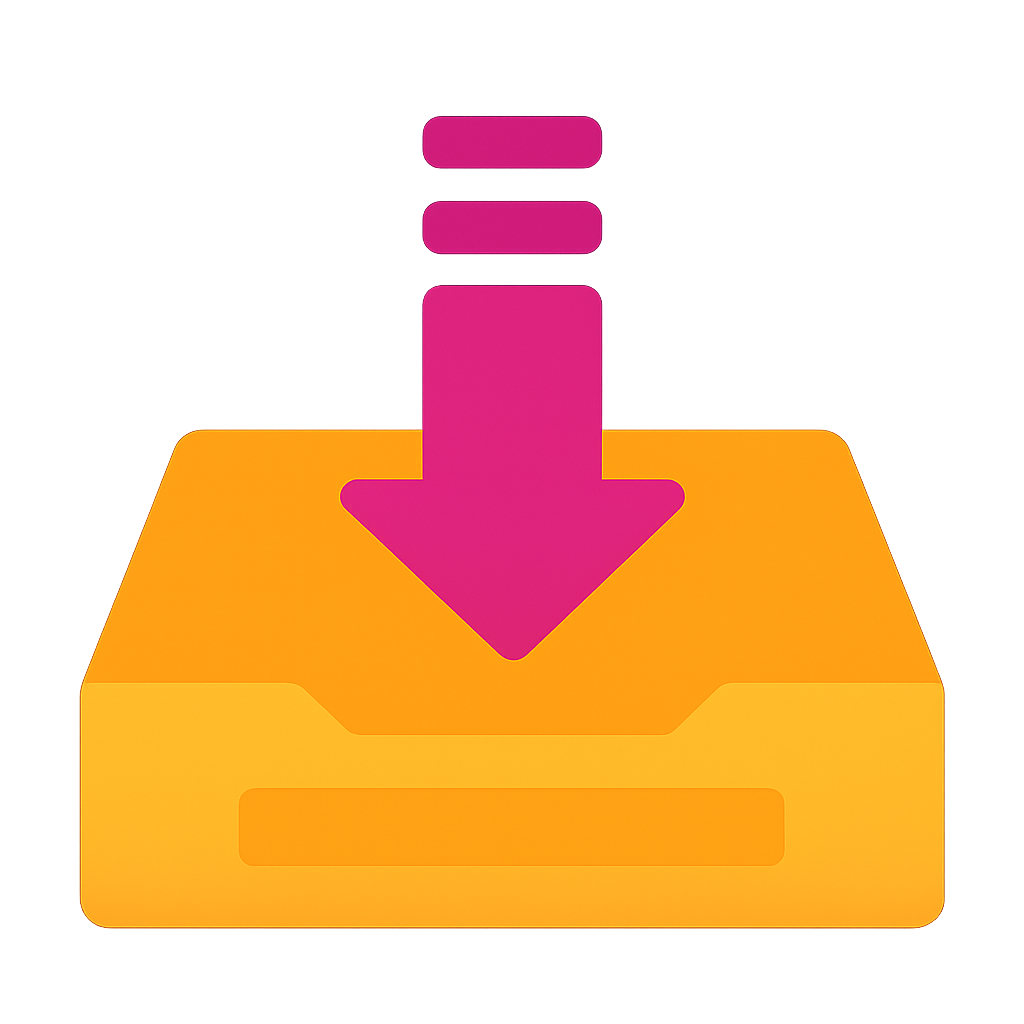
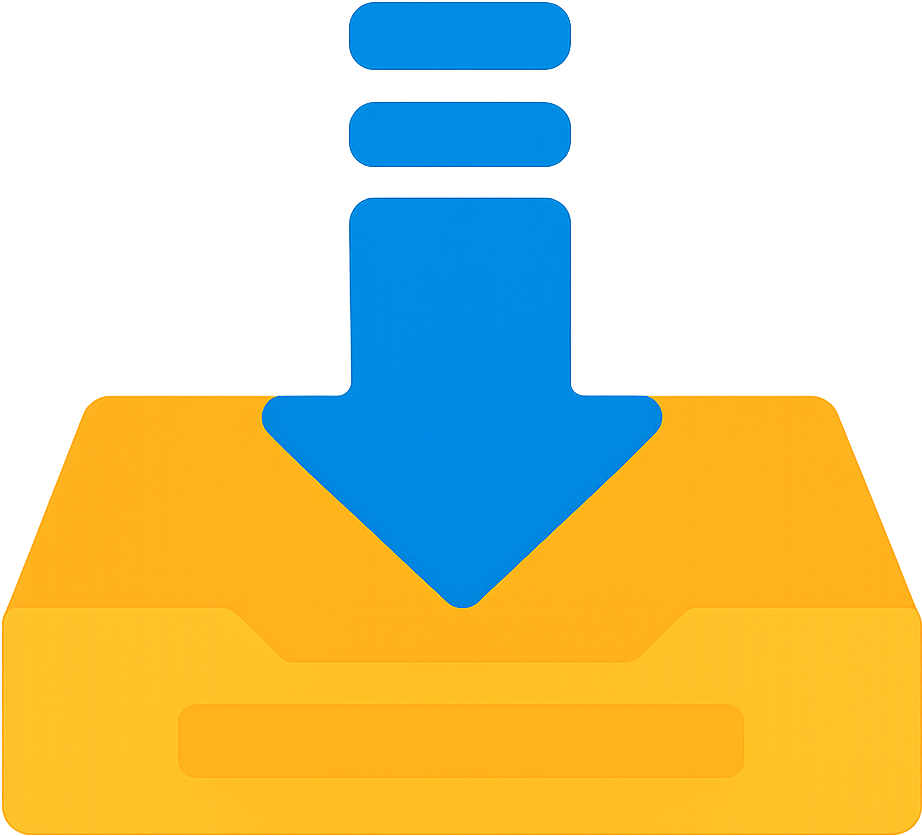
bug-fix: was returning empty bibFiles dude to texRaw.matchAll in getBibFilesFromText()
wip: updated download icon and keplertex logo

diff --git a/src/compilerService.ts b/src/compilerService.ts
@@ -18,11 +18,12 @@ function getBibFilesFromText(texRaw: string): string[] {
     }
     
     //check source with \addbibresource{}
-    const addBibMatch = texRaw.matchAll(/\\addbibresource\{([^}]+)\}/g); 
-    if(addBibMatch){
-        vscode.window.showWarningMessage("Please replace \\addbibresource with \\bibliograph, biber support not supported yet");
-        return [];
-    }
+    // const addBibMatch = texRaw.matchAll(/\\addbibresource\{([^}]+)\}/g); 
+    // console.log("add bib match : ",addBibMatch);
+    // if(addBibMatch){
+    //     vscode.window.showWarningMessage("Please replace \\addbibresource with \\bibliograph, biber support not supported yet");
+    //     return [];
+    // }
     // for (const match of addBibMatch) {
     //     bibFiles.push(match[1].trim());
     // }

diff --git a/src/loginService.ts b/src/loginService.ts
@@ -270,7 +270,7 @@ function getLoginHtml(
                     <div class="loginCenter">
 
                         <div class="logo">
-                            <img src="${logoUri}" height=200 width=200/>
+                            <img src="${logoUri}" width=191px height=119px/>
                         </div>
 
                         <div class="buttonDiv">

diff --git a/lib/login/login.css b/lib/login/login.css
@@ -68,13 +68,15 @@ button:hover {
     display: flex;
     color: #4a4a4a;
     font-size: 3vw;
-    margin-top: 20px;
+    margin-top: 50px;
 }
 
 .logo { 
     justify-content: center;
     align-items: center;
     display: flex;
+    /* width: 191px; */
+    margin-bottom: 85px;
 }
 
 .githubLoginButton{
